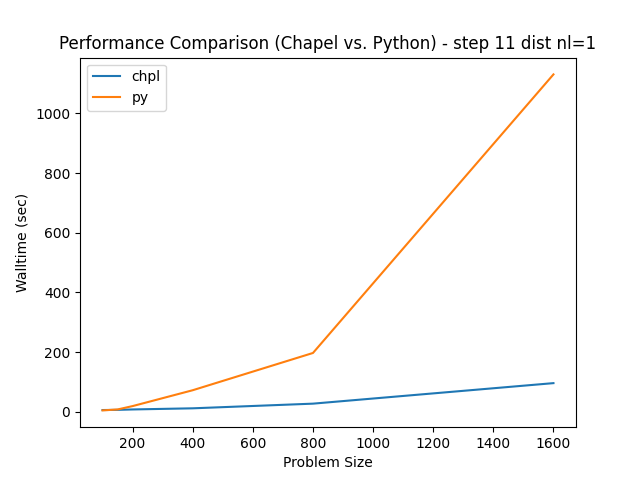
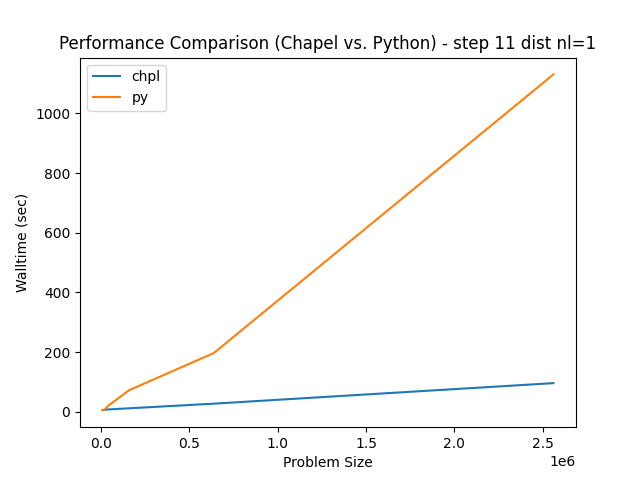
new plots, updates to perf-plotting script

diff --git a/perf_data_plotting.py b/perf_data_plotting.py
@@ -14,12 +14,11 @@ with open(sys.argv[1]) as csv_data:
         if header:
             header = False
         else:
-            problem_size = int(re.search(r"nx=([0-9]+)", row[1]).group(1))
-            print(problem_size, " \t ", row[12])
+            problem_size = int(re.search(r"nx=([0-9]+)", row[1]).group(1)) * int(re.search(r"ny=([0-9]+)", row[1]).group(1))
             if row[0] == 'chpl':
-                chpl_perf[problem_size] = float(row[12].strip())
+                chpl_perf[problem_size] = float(row[-1].strip())
             elif row[0] == 'py':
-                py_perf[problem_size] = float(row[12].strip())
+                py_perf[problem_size] = float(row[-1].strip())
 
 chpl_perf = OrderedDict(sorted(chpl_perf.items()))
 py_perf = OrderedDict(sorted(py_perf.items()))
